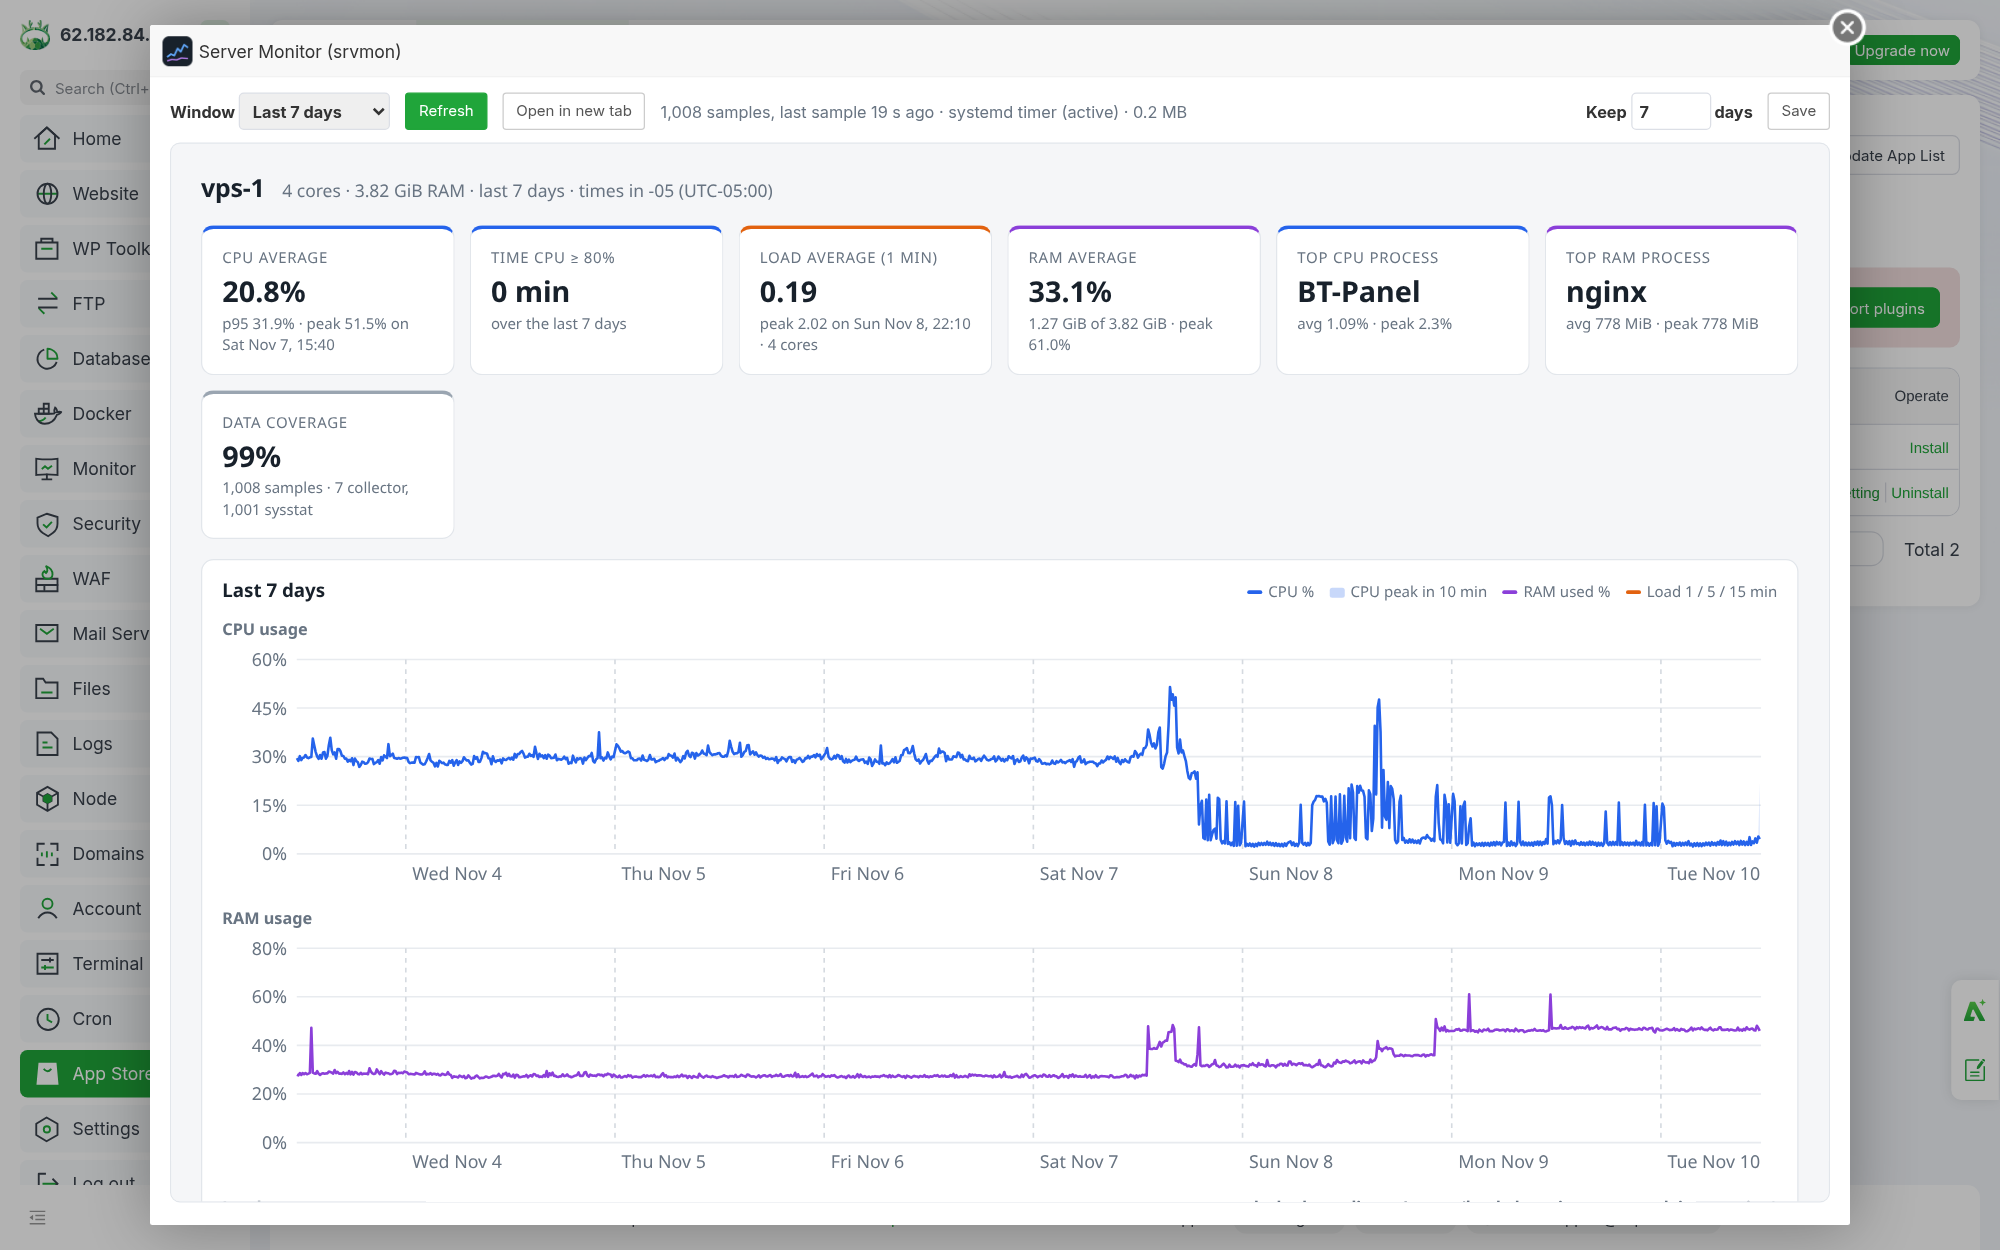
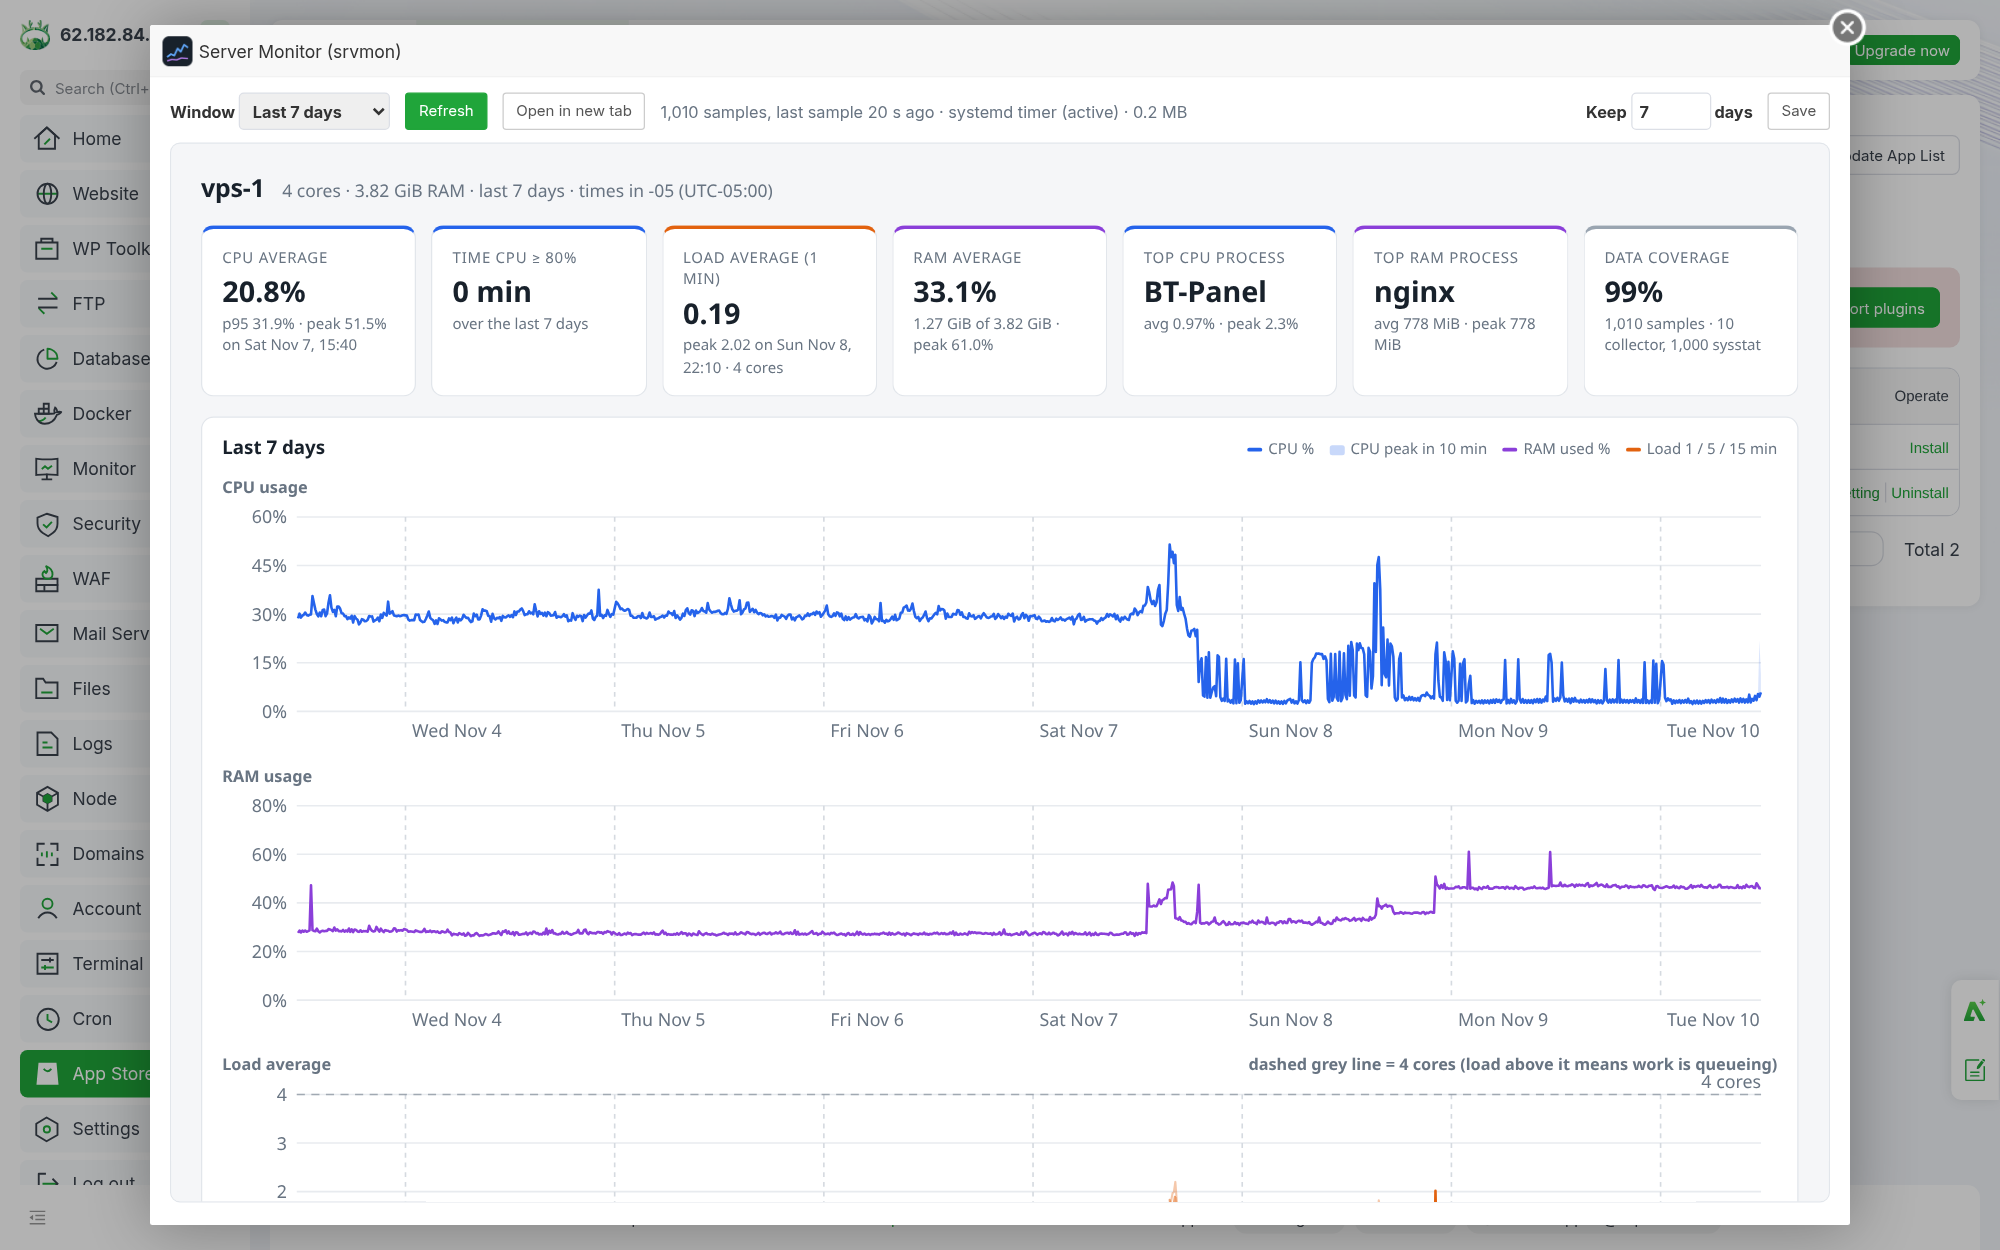
Full installation, configuration and usage guide with screenshots

diff --git a/README.md b/README.md
@@ -1,3 +1,240 @@
 # srvmon
 
-CPU, load, RAM and top-process history for Linux servers, with an optional aaPanel plugin. Full guide coming in the next commit.
+**See how your server's CPU, load, RAM and busiest processes behaved, minute by minute, over the last 7 days.**
+
+srvmon is a single Python file (standard library only) that records one sample per minute into SQLite, deletes anything older than the retention window (7 days by default), and shows the result as a daily text report, a self-contained HTML dashboard, JSON, or a plugin inside [aaPanel](https://www.aapanel.com). It runs on any Linux server with Python 3.6+.
+
+![srvmon inside aaPanel](docs/images/aapanel-plugin.png)
+
+## Contents
+
+- [What it records](#what-it-records)
+- [Quick start](#quick-start)
+- [Viewing the data](#viewing-the-data)
+- [Configuration](#configuration)
+- [aaPanel](#aapanel)
+- [Reusing it on other servers](#reusing-it-on-other-servers)
+- [How it works](#how-it-works)
+- [Upgrade and uninstall](#upgrade-and-uninstall)
+- [Troubleshooting](#troubleshooting)
+- [Development](#development)
+
+## What it records
+
+Every minute, one row per sample:
+
+| Metric | Details |
+|--------|---------|
+| CPU usage | Share of all cores that was busy since the previous sample (an average over the minute, not a snapshot). Also stores user, nice, system, iowait and steal. |
+| Load average | 1, 5 and 15 minute load, shown against the number of cores. |
+| RAM | Used memory as `MemTotal - MemAvailable`, which leaves out cache the kernel can free on demand. Percent and bytes, plus swap. |
+| Top processes by CPU | The 5 process groups that used the most CPU during that minute. |
+| Top processes by RAM | The 5 process groups holding the most memory (PSS when the kernel provides it, otherwise RSS). |
+
+Processes are grouped by name, so 8 `php-fpm` workers count as one `php-fpm` entry with their CPU and memory added up. Scripts run by an interpreter are named after the script (`python3 backup.py`, `node server.js`), and kernel threads like `kworker/u8:1` are folded into `kworker`.
+
+From those samples srvmon computes, per day and for the whole window: average, 95th percentile and peak (with the time it happened), minutes spent above the alert threshold, hour-by-hour averages, and the top processes ranked by average CPU and by average memory.
+
+## Quick start
+
+On the server you want to monitor, as root:
+
+```bash
+git clone https://github.com/CristhianBuiza/srvmon.git
+cd srvmon
+sudo ./install.sh
+```
+
+That's it. The installer:
+
+1. Copies srvmon to `/opt/srvmon` and links the `srvmon` command into `/usr/local/bin`.
+2. Writes `/etc/srvmon.conf` with 7-day retention (kept as-is on re-runs).
+3. Schedules `srvmon collect` every minute with a systemd timer (or cron when systemd is not available).
+4. Takes the first sample, then backfills the last 7 days of CPU, load and RAM from sysstat if `sar` history exists on the machine.
+5. Installs the aaPanel plugin if aaPanel is detected.
+
+Check that it is collecting:
+
+```bash
+srvmon status     # last_native_age_s should stay under 60
+srvmon report     # 7-day daily table
+```
+
+Useful installer options:
+
+```bash
+sudo ./install.sh --retention 14 --label web-01   # keep 14 days, name the server "web-01"
+sudo ./install.sh --top 10                        # record the top 10 processes instead of 5
+sudo ./install.sh --scheduler cron                # use cron even if systemd exists
+sudo ./install.sh --no-plugin --no-sysstat-import
+sudo ./install.sh --help
+```
+
+## Viewing the data
+
+### Text report
+
+```bash
+srvmon report                    # one line per day for the retention window, plus top processes
+srvmon report --days 3           # shorter window
+srvmon report --day 2026-11-09   # hour by hour for one day, with that day's top processes
+srvmon report --json             # everything as JSON, for scripts and other tools
+```
+
+![srvmon report in a terminal](docs/images/report-terminal.png)
+
+### HTML dashboard
+
+The dashboard is one HTML file with the data embedded. It has no external scripts, fonts or CDN calls, so it works offline and can be emailed or archived.
+
+```bash
+srvmon html --out /tmp/srvmon.html                 # write a snapshot, then download it (scp, SFTP, the panel file manager)
+srvmon serve                                       # live dashboard on http://127.0.0.1:8765
+ssh -L 8765:127.0.0.1:8765 root@your-server        # from your computer, then open http://localhost:8765
+```
+
+`srvmon serve` binds to localhost by default. To expose it on a network interface, always pass a token: `srvmon serve --bind 0.0.0.0 --token "$(openssl rand -hex 16)"` and open `http://server:8765/?token=...`. The JSON behind the page is at `/api/summary`.
+
+**Last 7 days.** Summary cards, then CPU (the shaded band is the highest minute inside each 10-minute point), RAM, and load average against the core count. Hover any chart for exact values.
+
+![7-day overview](docs/images/dashboard-overview.png)
+
+**Day by day.** One row per day. Click a day to see its CPU, RAM and load at 10-minute resolution and its top processes. The URL keeps the selected day (`#2026-11-09`), so you can share a link to one day.
+
+![Daily table and day detail](docs/images/dashboard-daily.png)
+
+**Top processes for the whole window**, by average CPU and by average memory, with the peak and when it happened.
+
+![Top processes](docs/images/dashboard-processes.png)
+
+All times are shown in the server's time zone, whatever time zone the viewer's browser uses.
+
+## Configuration
+
+`/etc/srvmon.conf`, one `KEY=VALUE` per line. Changes apply from the next sample; nothing needs restarting.
+
+| Key | Default | Meaning |
+|-----|---------|---------|
+| `RETENTION_DAYS` | `7` | Days of history to keep. Older rows are deleted every minute, and the freed space is returned to the disk. |
+| `TOP_N` | `5` | Process groups stored per sample: the top N by CPU plus the top N by RAM. |
+| `CPU_ALERT` | `80` | CPU % drawn as a red line and counted in "time above". |
+| `RAM_ALERT` | `90` | RAM % drawn as a red line and counted in "time above". |
+| `LABEL` | hostname | Name shown in reports and on the dashboard. |
+| `DB_PATH` | `/var/lib/srvmon/srvmon.db` | SQLite database. |
+| `SYSSTAT_DIRS` | `/var/log/sysstat:/var/log/sa` | Where `srvmon import-sysstat` looks for `sar` files (Debian/Ubuntu, then RHEL layout). |
+
+Every key can also be set for a single command with an environment variable, for example `SRVMON_RETENTION_DAYS=3 srvmon report`. Use `SRVMON_CONFIG=/path/file` to point at another config file.
+
+**Changing the retention window.** Edit `RETENTION_DAYS` and run `srvmon prune` to apply it right away, or use the "Keep N days" box in the aaPanel plugin. Shortening the window deletes data immediately. Lengthening it only keeps future data longer; deleted rows do not come back.
+
+**Disk use.** A full week at the defaults is about 10,000 samples and 100,000 process rows, roughly 7 MB.
+
+## aaPanel
+
+The plugin is a thin page on top of the same collector. It appears under **App Store → Third-party Plug-ins → Server Monitor (srvmon) → Setting**.
+
+![The plugin in the App Store list](docs/images/aapanel-store.png)
+
+Inside the plugin you can pick the window (24 hours, 3 or 7 days), refresh, open the dashboard full screen in a new tab, and change the retention. The status line shows how many samples exist, how old the last one is, and whether the timer is active.
+
+There are two ways to install it:
+
+- **From the repository (recommended).** Run `sudo ./install.sh`. When `/www/server/panel` exists, the plugin is installed automatically. Add `--panel-monitor` to also switch on aaPanel's own Monitor page (Monitor menu) with the same retention, so both keep the same number of days.
+- **From the panel, without SSH.** Download `srvmon-aapanel-plugin.zip` from the [latest release](https://github.com/CristhianBuiza/srvmon/releases/latest), then go to **App Store → Third-party Plug-ins → Import plugins** and upload it. The zip includes the collector and runs the same installer.
+
+Uninstalling the plugin from the App Store only removes the panel page. The collector and its data stay; see [Upgrade and uninstall](#upgrade-and-uninstall) to remove those.
+
+aaPanel shows a warning for every third-party plugin. srvmon's plugin only reads the srvmon database and writes `RETENTION_DAYS` to `/etc/srvmon.conf`. Its source is [`aapanel-plugin/srvmon/srvmon_main.py`](aapanel-plugin/srvmon/srvmon_main.py), under 100 lines.
+
+## Reusing it on other servers
+
+Nothing in srvmon is tied to one machine. For each server:
+
+```bash
+git clone https://github.com/CristhianBuiza/srvmon.git && cd srvmon
+sudo ./install.sh --label "$(hostname -s)"      # or any name, e.g. --label db-prod
+```
+
+| Server type | What happens |
+|-------------|--------------|
+| Ubuntu / Debian / RHEL / Rocky / Alma, systemd | systemd timer `srvmon-collect.timer`. |
+| No systemd (SysV init, some containers) | `/etc/cron.d/srvmon` (needs a cron daemon that reads `/etc/cron.d`), or force it with `--scheduler cron`. |
+| aaPanel installed | Plugin added automatically (`--no-plugin` to skip). |
+| sysstat installed with history | Last `RETENTION_DAYS` of CPU, load and RAM backfilled on install. |
+| No sysstat | History starts at install time. |
+| Old kernel (< 4.14) | Process memory falls back from PSS to RSS; the dashboard labels which one is used. |
+
+To compare servers, give each one a `--label`. To collect reports centrally, run `srvmon report --json` (or fetch `/api/summary` from `srvmon serve --token ...`) from your own tooling.
+
+## How it works
+
+```
+systemd timer / cron (every minute)
+        │
+        ▼
+srvmon collect ──► reads /proc/stat, /proc/loadavg, /proc/meminfo, /proc/<pid>/stat, /proc/<pid>/smaps_rollup
+        │
+        ▼
+/var/lib/srvmon/srvmon.db  (samples, proc_samples, meta)  ── rows older than RETENTION_DAYS deleted on every run
+        │
+        ├──► srvmon report [--day | --json]     text or JSON
+        ├──► srvmon html / serve                self-contained dashboard (srvmon/dashboard.html template)
+        └──► aaPanel plugin                     same dashboard inside the panel
+```
+
+- **CPU is measured over the whole minute.** Each run stores the kernel's CPU counters and compares them with the previous run, so a 20-second burst between samples is still counted. Per-process CPU works the same way, using each process's CPU time.
+- **Process CPU % is a share of the whole machine**, the same scale as the system CPU. On a 4-core server, one process pegging one core shows as 25%.
+- **Process memory prefers PSS**, which splits shared pages between the processes that use them. RSS, which counts shared memory once per process, overstates groups like php-fpm or postgres workers.
+- **Averages are time-weighted.** A 10-minute sysstat sample weighs ten times a 1-minute sample, and gaps longer than 15 minutes (server down, collector stopped) are left as gaps instead of stretched across.
+- **sysstat backfill** fills only the time before srvmon's first own sample, so the two sources never overlap. sysstat has no per-process data, so the process tables start at install time.
+- **Cost.** One run takes about 0.3 s of CPU on a server with ~190 processes (about 0.5% of one core, once a minute). It runs at nice 10 with idle I/O priority.
+
+## Upgrade and uninstall
+
+```bash
+cd srvmon && git pull && sudo ./install.sh      # upgrade; config and data are kept
+sudo /opt/srvmon/uninstall.sh                   # remove srvmon, keep /etc/srvmon.conf and the database
+sudo /opt/srvmon/uninstall.sh --purge           # remove everything, including collected data
+```
+
+## Troubleshooting
+
+| Symptom | Check |
+|---------|-------|
+| `last_native_age_s` keeps growing | `systemctl status srvmon-collect.timer` and `journalctl -u srvmon-collect.service -n 20`. With cron: `grep srvmon /var/log/syslog`. |
+| Process tables say "no process data yet" | Normal for days before installation; sysstat backfill has no process data. |
+| Coverage below 100% | Minutes without a sample: the server was off, the collector was stopped, or (backfilled days) sysstat only samples every 10 minutes, which still counts as covered. |
+| Plugin says "srvmon core not found" | The plugin files are present but the collector is not. Run `sudo ./install.sh` from the repository. |
+| Plugin not listed in aaPanel | Check that `/www/server/panel/plugin/srvmon/info.json` exists, then click **Update App List** in the App Store. |
+| `sysstat: 0 samples imported` | sysstat is not collecting (`/etc/default/sysstat`, `systemctl status sysstat`), or its files are older than the retention window. |
+| Peaks look lower on older days | Backfilled sysstat points are 10-minute averages; srvmon's own samples are 1-minute averages, so short spikes show up higher. |
+
+## Development
+
+```bash
+python3 -m unittest discover -s tests -v      # tests use temporary databases, no root needed
+./tools/build-plugin-zip.sh                    # builds dist/srvmon-aapanel-plugin.zip
+```
+
+Regenerating the README images from any server's data:
+
+```bash
+srvmon html --out dashboard.html && srvmon report > report.txt
+npm i playwright-core && npx playwright install chromium
+node tools/screenshots.js dashboard.html report.txt docs/images
+```
+
+The images in this README come from a real 4-core aaPanel server (labelled `vps-1`). The first days are backfilled from sysstat; process data starts on the install day.
+
+| Path | Contents |
+|------|----------|
+| `srvmon/srvmon.py` | Collector, storage, aggregation, CLI, HTTP server. |
+| `srvmon/dashboard.html` | Dashboard template (vanilla JS + inline SVG). |
+| `aapanel-plugin/srvmon/` | aaPanel plugin: `info.json`, backend, page, icon, zip-import hook. |
+| `install.sh`, `uninstall.sh` | Installer and uninstaller. |
+| `tests/` | Unit tests. |
+| `tools/` | Plugin zip builder and screenshot script. |
+
+## License
+
+MIT. See [LICENSE](LICENSE).
